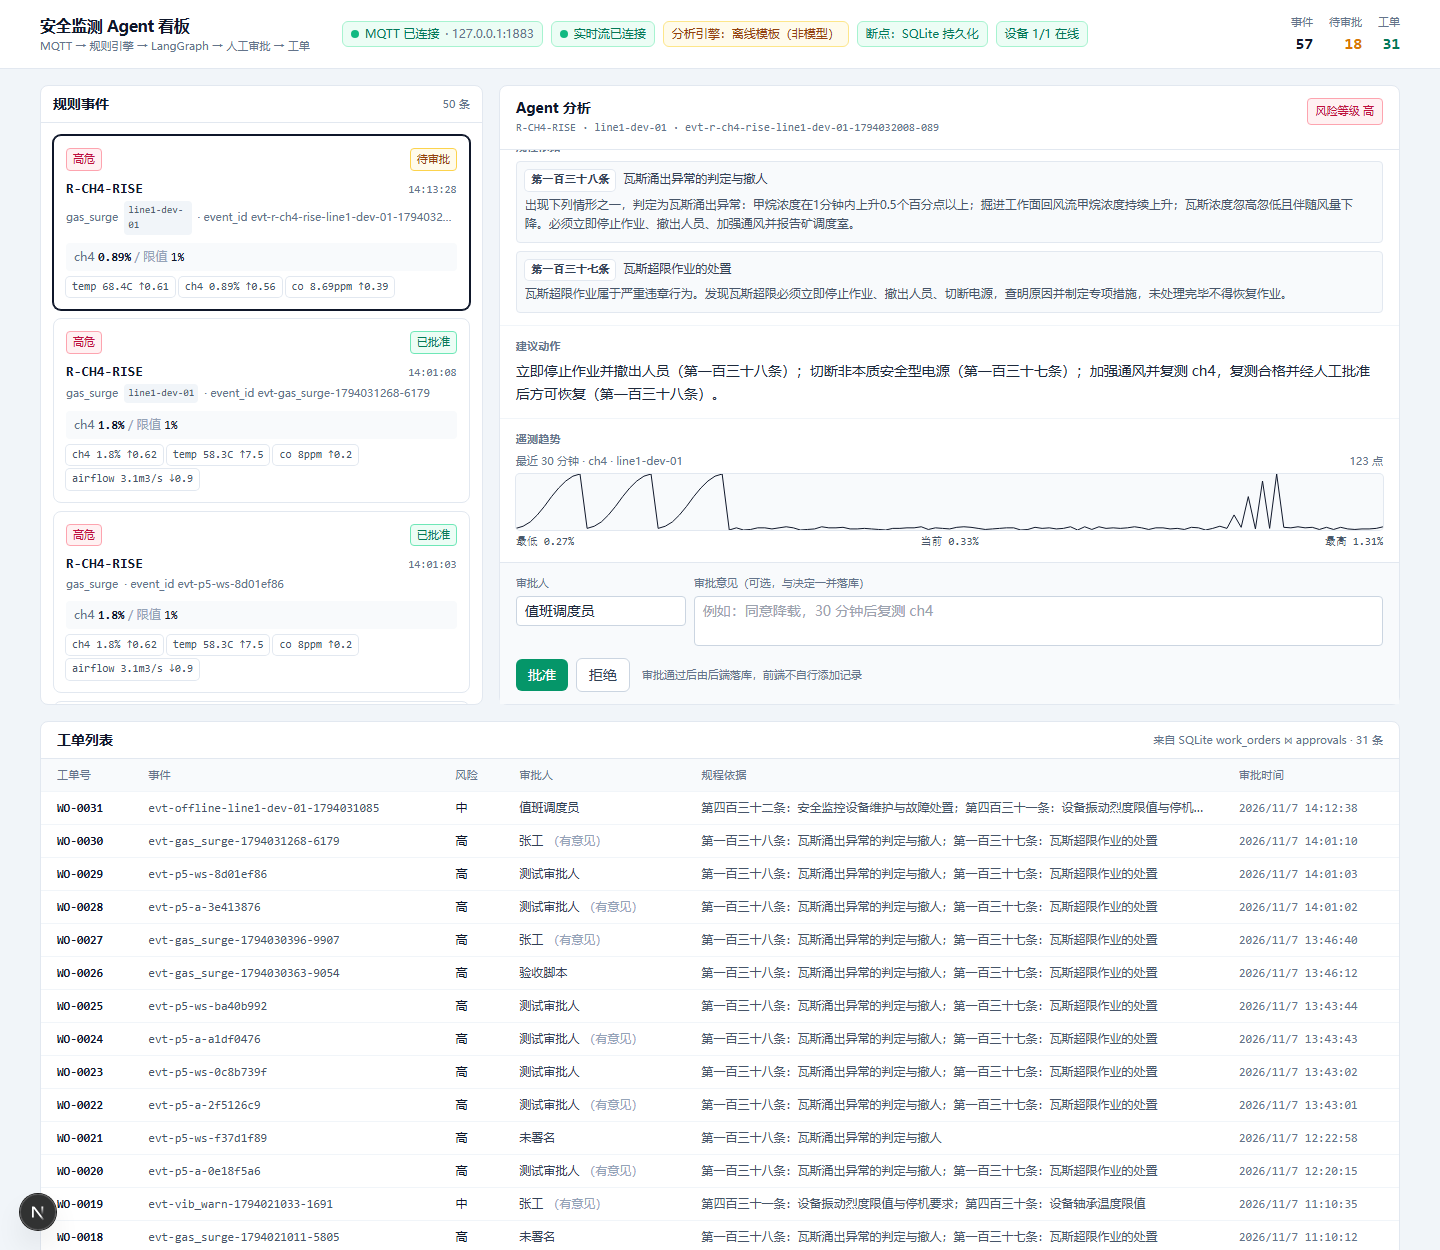
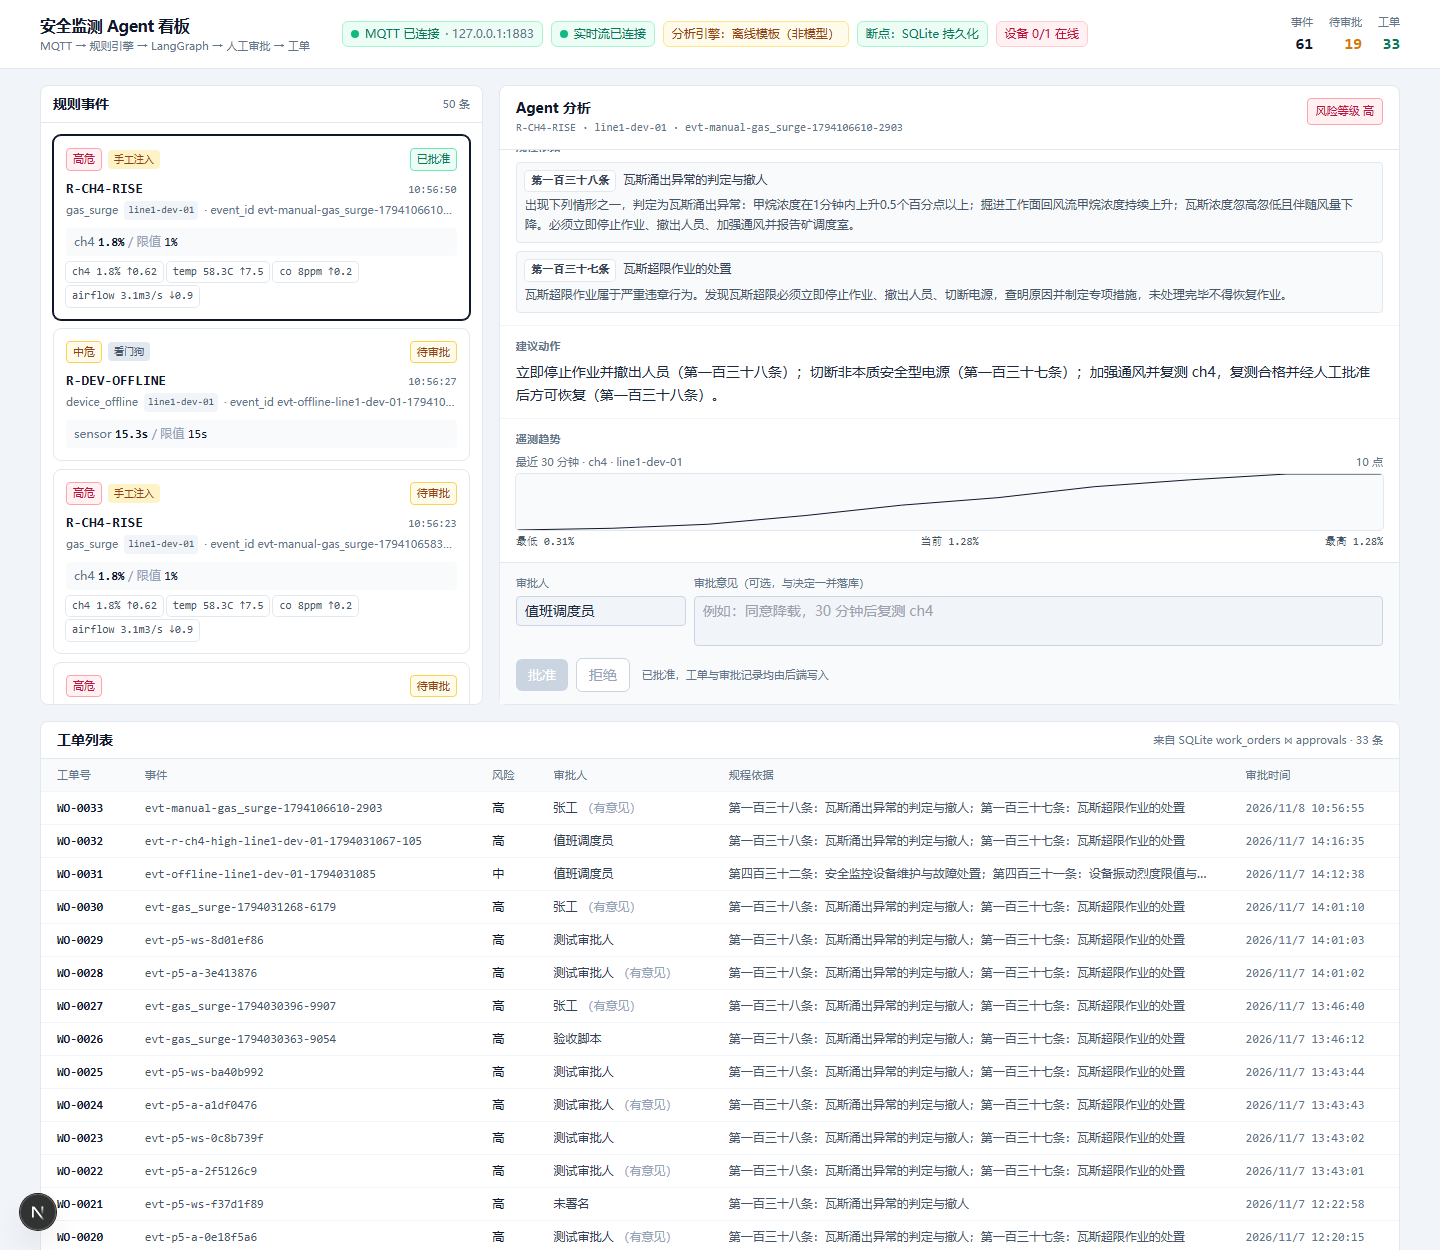
fix: 模拟器注入真实抬温（ch4_rise 多参数联动）+ 事件 origin 标记（手工注入/看门狗）

diff --git a/web/components/EventList.tsx b/web/components/EventList.tsx
@@ -58,8 +58,20 @@ export function EventCard({
       className="event-card w-full rounded-lg border border-slate-200 bg-white p-3 text-left transition-colors"
     >
       <div className="flex items-center justify-between gap-2">
-        <span className={`rounded border px-1.5 py-0.5 text-[11px] ${severity.cls}`}>{severity.label}</span>
-        <span className={`rounded border px-1.5 py-0.5 text-[11px] ${status.cls}`}>{status.label}</span>
+        <div className="flex items-center gap-1.5">
+          <span className={`rounded border px-1.5 py-0.5 text-[11px] ${severity.cls}`}>{severity.label}</span>
+          {event.origin === "manual" ? (
+            <span className="whitespace-nowrap rounded bg-amber-100 px-1.5 py-0.5 text-[10px] text-amber-800">
+              手工注入
+            </span>
+          ) : null}
+          {event.origin === "watchdog" ? (
+            <span className="whitespace-nowrap rounded bg-slate-200 px-1.5 py-0.5 text-[10px] text-slate-600">
+              看门狗
+            </span>
+          ) : null}
+        </div>
+        <span className={`shrink-0 rounded border px-1.5 py-0.5 text-[11px] ${status.cls}`}>{status.label}</span>
       </div>
 
       <div className="mt-2 flex items-baseline justify-between gap-2">
@@ -69,7 +81,7 @@ export function EventCard({
       <div className="mt-0.5 flex items-center gap-1.5 text-[11px] text-slate-500">
         <span>{event.event_type ?? "—"}</span>
         {event.device_id ? (
-          <span className="rounded bg-slate-100 px-1 py-0.5 font-mono text-[10px] text-slate-600">
+          <span className="whitespace-nowrap rounded bg-slate-100 px-1 py-0.5 font-mono text-[10px] text-slate-600">
             {event.device_id}
           </span>
         ) : null}

diff --git a/web/lib/types.ts b/web/lib/types.ts
@@ -11,6 +11,7 @@ export interface SensorSnapshot {
 export interface RuleEvent {
   event_id: string;
   device_id?: string;
+  origin?: "rule_engine" | "manual" | "watchdog" | string;
   rule_id?: string;
   event_type?: string;
   severity?: Severity;

diff --git a/sensor_simulator.py b/sensor_simulator.py
@@ -1,7 +1,12 @@
-"""模拟传感器：向 `line1/telemetry` 发布 1 Hz 读数。
+"""模拟传感器：向 `line1/telemetry` 发布 1 Hz 读数（基线 + 平滑注入 + 噪声）。
 
     python sensor_simulator.py                    # 正常模式（基线，不触发规则）
-    python sensor_simulator.py --inject ch4_rise  # 脚本化注入，十秒内触发 high 事件
+    python sensor_simulator.py --inject ch4_rise  # 瓦斯上升 + 温度同步上升 + 风量下降
+    python sensor_simulator.py --inject temp_spike
+    python sensor_simulator.py --inject vib_spike
+
+注入用 smoothstep 过渡，并**同时改变多个参数**，这样规则引擎产出的
+快照里 ch4/temp/airflow 的 delta 是真实算出来的，而不是手写的。
 """
 
 from __future__ import annotations
@@ -18,22 +23,41 @@ import paho.mqtt.client as mqtt
 
 TOPIC = "line1/telemetry"
 HEARTBEAT_TOPIC = "line1/heartbeat"
+
 BASELINE = {
-    "temp": {"value": 68.0, "unit": "C", "noise": 1.2},
-    "ch4": {"value": 0.30, "unit": "%", "noise": 0.03},
-    "co": {"value": 8.0, "unit": "ppm", "noise": 1.0},
-    "airflow": {"value": 3.6, "unit": "m3/s", "noise": 0.05},
+    "ch4": {"value": 0.30, "unit": "%", "noise": 0.03, "floor": 0.0},
+    "temp": {"value": 68.0, "unit": "C", "noise": 1.2, "floor": 0.0},
+    "co": {"value": 8.0, "unit": "ppm", "noise": 1.0, "floor": 0.0},
+    "airflow": {"value": 3.6, "unit": "m3/s", "noise": 0.05, "floor": 0.1},
+    "vibration": {"value": 3.6, "unit": "mm/s", "noise": 0.12, "floor": 0.0},
 }
+
+# delta = 场景结束时相对基线的变化量（按 smoothstep 逐步逼近）
 SCENARIOS = {
-    # 8 秒内 ch4 由 0.30 抬到 1.30，同时 temp 上升、airflow 下降
-    "ch4_rise": {"duration": 10, "ch4_from": 0.30, "ch4_to": 1.30, "temp_rise": 8.0, "airflow_drop": 0.9},
-    # 温度快速越过 85℃
-    "temp_spike": {"duration": 8, "temp_from": 70.0, "temp_to": 94.0, "ch4_from": 0.3, "ch4_to": 0.35},
+    "ch4_rise": {
+        "duration": 10,
+        "delta": {"ch4": 1.0, "temp": 8.0, "airflow": -0.9},
+        "desc": "ch4 0.30→1.30%，temp +8℃，风量 -0.9（局部瓦斯涌出 + 通风异常）",
+    },
+    "temp_spike": {
+        "duration": 8,
+        "delta": {"temp": 24.0, "ch4": 0.05},
+        "desc": "temp 68→92℃（轴承温度超限）",
+    },
+    "vib_spike": {
+        "duration": 8,
+        "delta": {"vibration": 1.6, "temp": 3.0},
+        "desc": "振动 3.6→5.2 mm/s（设备振动超限）",
+    },
 }
 
 
 def now() -> str:
     return datetime.now(timezone.utc).astimezone().isoformat(timespec="milliseconds")
+
+
+def smoothstep(ratio: float) -> float:
+    return ratio * ratio * (3 - 2 * ratio)
 
 
 def publish(client: mqtt.Client, sensor: str, value: float, unit: str, tick: int, scenario: str,
@@ -56,33 +80,30 @@ def heartbeat(client: mqtt.Client, device: str) -> None:
     client.publish(HEARTBEAT_TOPIC, json.dumps(payload, ensure_ascii=False), qos=0)
 
 
+def scenario_value(sensor: str, eased: float, delta: dict[str, float], rng: random.Random) -> float:
+    """当前 tick 的读数 = 基线 + 变化量*eased + 噪声；纯函数，便于单测。"""
+    base = BASELINE[sensor]
+    value = base["value"] + float(delta.get(sensor, 0.0)) * eased + rng.uniform(-base["noise"], base["noise"])
+    return max(base["floor"], value)
+
+
 def run_scenario(client: mqtt.Client, name: str, seed: int, device: str) -> None:
     spec = SCENARIOS[name]
     rng = random.Random(seed)
     steps = int(spec["duration"])
-    print(f"[sim] 注入场景 {name}：{steps}s，device={device}，topic={TOPIC}")
+    print(f"[sim] 注入场景 {name}：{steps}s，{spec['desc']}；device={device}")
 
     for tick in range(steps):
-        ratio = tick / max(1, steps - 1)
-        eased = ratio * ratio * (3 - 2 * ratio)  # smoothstep，避免瞬间跳变
-
-        ch4 = spec.get("ch4_from", BASELINE["ch4"]["value"]) + (
-            spec.get("ch4_to", 1.3) - spec.get("ch4_from", 0.3)
-        ) * eased
-        temp = spec.get("temp_from", BASELINE["temp"]["value"]) + (
-            spec.get("temp_to", BASELINE["temp"]["value"]) - spec.get("temp_from", BASELINE["temp"]["value"])
-        ) * eased
-        airflow = BASELINE["airflow"]["value"] - spec.get("airflow_drop", 0.0) * eased
-
-        publish(client, "ch4", max(0.01, ch4 + rng.uniform(-0.01, 0.01)), "%", tick, name, device)
-        publish(client, "temp", temp + rng.uniform(-0.4, 0.4), "C", tick, name, device)
-        publish(client, "co", BASELINE["co"]["value"] + rng.uniform(-0.8, 0.8), "ppm", tick, name, device)
-        publish(client, "airflow", max(0.1, airflow + rng.uniform(-0.03, 0.03)), "m3/s", tick, name, device)
+        eased = smoothstep(tick / max(1, steps - 1))
+        values = {sensor: scenario_value(sensor, eased, spec["delta"], rng) for sensor in BASELINE}
+        for sensor, value in values.items():
+            publish(client, sensor, value, BASELINE[sensor]["unit"], tick, name, device)
         if tick % 2 == 0:
             heartbeat(client, device)
-
-        if tick % 2 == 0:
-            print(f"[sim] t={tick:02d}s ch4={ch4:.2f}% temp={temp:.1f}C airflow={airflow:.2f}")
+            print(
+                f"[sim] t={tick:02d}s ch4={values['ch4']:.2f}% temp={values['temp']:.1f}C "
+                f"vib={values['vibration']:.2f} airflow={values['airflow']:.2f}"
+            )
         time.sleep(1.0)
 
     print("[sim] 场景结束")
@@ -98,6 +119,7 @@ def run_normal(client: mqtt.Client, seed: int, device: str) -> None:
         publish(client, "ch4", max(0.01, BASELINE["ch4"]["value"] + rng.uniform(-0.03, 0.03)), "%", tick, "normal", device)
         publish(client, "co", BASELINE["co"]["value"] + rng.uniform(-1, 1), "ppm", tick, "normal", device)
         publish(client, "airflow", BASELINE["airflow"]["value"] + rng.uniform(-0.05, 0.05), "m3/s", tick, "normal", device)
+        publish(client, "vibration", BASELINE["vibration"]["value"] + rng.uniform(-0.2, 0.2), "mm/s", tick, "normal", device)
         if tick % 2 == 0:
             heartbeat(client, device)
         tick += 1

diff --git a/scripts/inject_event.py b/scripts/inject_event.py
@@ -1,9 +1,12 @@
 #!/usr/bin/env python3
-"""演示事件注入：优先走 MQTT（line1/events），broker 不在时回退到后端 HTTP 注入。
+"""演示触发：默认走**真实链路**——发布遥测 → 规则引擎判定 → 事件。
 
-    python scripts/inject_event.py --scenario gas_surge
-    python scripts/inject_event.py --scenario temp_high --mqtt 127.0.0.1:1883
-    python scripts/inject_event.py --scenario gas_surge --http      # 强制 HTTP
+    python scripts/inject_event.py --scenario gas_surge     # 走遥测（推荐）
+    python scripts/inject_event.py --scenario gas_surge --direct   # 直投事件，标记为「手工注入」
+
+默认模式只是把场景翻译成 `sensor_simulator --inject`，事件由规则引擎按阈值/趋势
+真实产出；`--direct` 是把一条事件直接塞进后端，仅用于联调，事件带 `origin=manual`，
+前端会显示「手工注入」徽标，避免和规则引擎产出的事件混淆。
 """
 
 from __future__ import annotations
@@ -11,6 +14,7 @@ from __future__ import annotations
 import argparse
 import json
 import random
+import subprocess
 import sys
 import time
 import urllib.error
@@ -21,9 +25,18 @@ from pathlib import Path
 if hasattr(sys.stdout, "reconfigure"):
     sys.stdout.reconfigure(encoding="utf-8")
 
+ROOT = Path(__file__).resolve().parent.parent
 TOPIC = "line1/events"
 BACKEND = "http://127.0.0.1:8000"
 
+# 场景 → 模拟器脚本（遥测注入）
+SIMULATOR_SCENARIO = {
+    "gas_surge": "ch4_rise",
+    "temp_high": "temp_spike",
+    "vib_warn": "vib_spike",
+}
+
+# 仅 --direct 时使用的预置事件
 SCENARIOS: dict[str, dict] = {
     "gas_surge": {
         "rule_id": "R-CH4-RISE",
@@ -53,8 +66,8 @@ SCENARIOS: dict[str, dict] = {
         },
     },
     "vib_warn": {
-        "rule_id": "R-VIB-TREND",
-        "event_type": "trend_warning",
+        "rule_id": "R-VIB-HIGH",
+        "event_type": "threshold_exceeded",
         "sensor": "vibration",
         "severity": "medium",
         "observed": {"value": 4.8, "unit": "mm/s", "threshold": 4.5},
@@ -70,11 +83,12 @@ SCENARIOS: dict[str, dict] = {
 def build_event(scenario: str) -> dict:
     spec = SCENARIOS[scenario]
     now = datetime.now(timezone.utc).astimezone()
-    event_id = f"evt-{scenario}-{int(time.time())}-{random.randint(1000, 9999)}"
+    event_id = f"evt-manual-{scenario}-{int(time.time())}-{random.randint(1000, 9999)}"
     return {
         "event_id": event_id,
         "schema_version": 1,
         "line": "line1",
+        "origin": "manual",
         "sensor": spec["sensor"],
         "device_id": "line1-dev-01",
         "rule_id": spec["rule_id"],
@@ -87,6 +101,21 @@ def build_event(scenario: str) -> dict:
         "scenario_id": scenario,
         "tick": random.randint(1, 999),
     }
+
+
+def run_simulator(scene: str, device: str) -> int:
+    print(f"[inject] 走遥测链路：sensor_simulator --inject {scene}——事件将由规则引擎产出")
+    cmd = [
+        sys.executable,
+        "-X",
+        "utf8",
+        str(ROOT / "sensor_simulator.py"),
+        "--inject",
+        scene,
+        "--device",
+        device,
+    ]
+    return subprocess.call(cmd, cwd=str(ROOT))
 
 
 def publish_mqtt(event: dict, host: str, port: int) -> bool:
@@ -128,15 +157,21 @@ def publish_http(event: dict, backend: str) -> bool:
 
 
 def main() -> int:
-    ap = argparse.ArgumentParser(description="注入演示事件")
+    ap = argparse.ArgumentParser(description="演示触发")
     ap.add_argument("--scenario", default="gas_surge", choices=sorted(SCENARIOS))
+    ap.add_argument("--device", default="line1-dev-01")
     ap.add_argument("--mqtt", default="127.0.0.1:1883", help="host:port")
     ap.add_argument("--backend", default=BACKEND)
-    ap.add_argument("--http", action="store_true", help="跳过 MQTT，直接走 HTTP")
+    ap.add_argument("--direct", action="store_true",
+                    help="跳过遥测/规则引擎，直接投一条事件（标 origin=manual）")
+    ap.add_argument("--http", action="store_true", help="--direct 时强制走 HTTP")
     args = ap.parse_args()
 
+    if not args.direct:
+        return run_simulator(SIMULATOR_SCENARIO[args.scenario], args.device)
+
     event = build_event(args.scenario)
-    print(f"[inject] 事件 {event['event_id']}  scenario={args.scenario}")
+    print(f"[inject] 直投事件 {event['event_id']}（origin=manual，前端会标「手工注入」）")
     print(json.dumps(event, ensure_ascii=False, indent=2))
 
     if not args.http:
@@ -147,7 +182,7 @@ def main() -> int:
 
     if publish_http(event, args.backend):
         return 0
-    print("[inject] MQTT 与 HTTP 都不可用：请先启动 mosquitto 或 server.py")
+    print("[inject] MQTT 与 HTTP 都不可用：请先启动 mosquitto 或 backend_server.py")
     return 1
 
 

diff --git a/tests/test_simulator.py b/tests/test_simulator.py
@@ -1,0 +1,43 @@
+"""模拟器场景：注入必须同时改变多个参数（ch4 上升时 temp 也要真的上升）。"""
+
+from __future__ import annotations
+
+import random
+
+import sensor_simulator as sim
+
+
+def value_of(sensor: str, scene: str, eased: float, seed: int = 0) -> float:
+    return sim.scenario_value(sensor, eased, sim.SCENARIOS[scene]["delta"], random.Random(seed))
+
+
+def test_ch4_rise_raises_temp_and_drops_airflow():
+    delta = sim.SCENARIOS["ch4_rise"]["delta"]
+    assert delta["ch4"] > 0
+    assert delta["temp"] > 0, "ch4 上升场景必须同时抬温，否则多参数叙事不成立"
+    assert delta["airflow"] < 0
+
+    temp0 = value_of("temp", "ch4_rise", 0.0)
+    temp1 = value_of("temp", "ch4_rise", 1.0)
+    assert temp1 - temp0 > 5.0
+
+    ch4_0 = value_of("ch4", "ch4_rise", 0.0)
+    ch4_1 = value_of("ch4", "ch4_rise", 1.0)
+    assert ch4_1 > 1.0 > ch4_0
+
+
+def test_temp_spike_crosses_threshold():
+    assert value_of("temp", "temp_spike", 1.0) > 85.0
+    assert value_of("ch4", "temp_spike", 1.0) < 1.0
+
+
+def test_vib_spike_crosses_threshold():
+    assert value_of("vibration", "vib_spike", 1.0) > 4.5
+    assert value_of("vibration", "vib_spike", 0.0) < 4.0
+
+
+def test_all_scenarios_have_baseline_sensors():
+    for name, spec in sim.SCENARIOS.items():
+        assert spec["duration"] > 0, name
+        for sensor in spec["delta"]:
+            assert sensor in sim.BASELINE, f"{name} 引用了未知传感器 {sensor}"

diff --git a/backend_server.py b/backend_server.py
@@ -675,6 +675,18 @@ def _ingest(event: dict[str, Any], source: str = "http") -> dict[str, Any]:
     event_id = str(event.get("event_id") or f"evt-{uuid.uuid4().hex[:12]}")
     event["event_id"] = event_id
 
+    # 来源标记：规则引擎 / 看门狗 / 手工直投。前端据此渲染徽标，
+    # 避免把联调用的直投事件误当成真实规则产出。
+    origin = event.get("origin") or {
+        "rule_engine": "rule_engine",
+        "mqtt": "rule_engine",
+        "watchdog": "watchdog",
+        "dev": "manual",
+    }.get(source, source)
+    event["origin"] = origin
+    if origin == "manual":
+        inc("manual_injected_total")
+
     with EVENTS_LOCK:
         if event_id in EVENTS:
             return {"accepted": False, "duplicate": True, "event_id": event_id, "thread_id": event_id}
@@ -684,6 +696,7 @@ def _ingest(event: dict[str, Any], source: str = "http") -> dict[str, Any]:
             "event": event,
             "status": "received",
             "source": source,
+            "origin": origin,
             "received_at": utcnow(),
         }
 

diff --git a/rule_engine.py b/rule_engine.py
@@ -184,6 +184,7 @@ def main() -> int:
             "event_id": f"evt-{(rule_id or spec['rule_id']).lower()}-{device}-{int(time.time())}-{int(value * 100) % 1000:03d}",
             "schema_version": 1,
             "line": "line1",
+            "origin": "rule_engine",
             "device_id": device,
             "sensor": sensor,
             "rule_id": rule_id or spec["rule_id"],

diff --git a/README.md b/README.md
@@ -23,6 +23,26 @@ safe-monitor-agent
 └─ .models/                Qwen2.5-3B-Instruct（约 6.2 GB，已 gitignore）
 ```
 
+## 数据从哪来（没有真实传感器）
+
+全部是程序合成的，但**合成发生在最底层**，上层判定是真实逻辑：
+
+| 层 | 来源 | 说明 |
+|---|---|---|
+| 遥测 | `sensor_simulator.py` | 1 Hz 发 ch4/temp/co/airflow/vibration，基线 + 正弦 + 随机噪声；`--inject ch4_rise` 用 smoothstep 同时抬 ch4、抬 temp、降风量 |
+| 事件 | `rule_engine.py` | 按 `config/rules.json` 阈值/趋势真实判定，事件里的 `delta_1m` 由历史窗口算出，不是手写 |
+| 分析 | `analyzer.py` | 检索 17 条规程 + 本地 3B / Ollama / 离线模板；条条款号可回查 |
+| 工单 | 人工批准后写 SQLite | 带审批人、审批意见、审批时间 |
+
+事件上有一个 `origin` 字段区分来源：`rule_engine`（遥测→规则）、`watchdog`（设备离线）、
+`manual`（联调用直投）。前端对 `manual` 显示黄色「手工注入」、对 `watchdog` 显示「看门狗」，
+避免把联调数据误当成真实判定。
+
+```powershell
+python scripts\inject_event.py --scenario gas_surge            # 默认走遥测→规则引擎
+python scripts\inject_event.py --scenario gas_surge --direct   # 直投一条事件（origin=manual）
+```
+
 ## 阶段与文档
 
 | 阶段 | 内容 | 文档 | 验收 |
